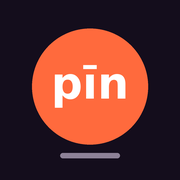
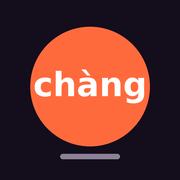
Rename to ChàngAlong
Claude-Session: https://claude.ai/code/session_011Qoc5iejNaPm9SH9yGWvwC

diff --git a/index.html b/index.html
@@ -6,8 +6,8 @@
 <meta name="theme-color" content="#140d1c">
 <meta name="apple-mobile-web-app-capable" content="yes">
 <meta name="apple-mobile-web-app-status-bar-style" content="black-translucent">
-<meta name="apple-mobile-web-app-title" content="Pinyin KTV">
-<title>Pinyin Karaoke</title>
+<meta name="apple-mobile-web-app-title" content="ChàngAlong">
+<title>ChàngAlong</title>
 <link rel="manifest" href="manifest.webmanifest">
 <link rel="apple-touch-icon" href="icons/icon-180.png">
 <link rel="icon" href="icons/icon-192.png">
@@ -19,12 +19,12 @@
   <!-- BROWSE: listen, search, recent, favourites -->
   <section id="browse" class="view">
     <header class="bhead">
-      <h1>Pinyin Karaoke</h1>
+      <h1>Chàng<span style="color:var(--hl)">Along</span></h1>
       <button class="ib" id="bSet1" aria-label="Settings"><svg viewBox="0 0 24 24"><path d="M4 7h10M18 7h2M4 17h4M12 17h8"/><circle cx="16" cy="7" r="2"/><circle cx="10" cy="17" r="2"/></svg></button>
     </header>
     <div class="scroll-y">
       <div class="listen-hero">
-        <a class="big" id="bListen" href="shortcuts://run-shortcut?name=Pinyin%20Karaoke">Listen</a>
+        <a class="big" id="bListen" href="shortcuts://run-shortcut?name=ChangAlong">Listen</a>
         <p class="hero-s">Shazam finds the song, then the lyrics open here in pinyin.</p>
         <button class="link" id="bHowListen">First time? Set up the Shortcut</button>
       </div>
@@ -60,7 +60,7 @@
       <button class="tap" id="bTap">Tap as the next line starts</button>
       <div class="dock">
         <button class="nudge" id="bBehind" aria-label="Lyrics are behind the singer: jump ahead half a second">Behind<small>+0.5s</small></button>
-        <div class="mid"><a class="mic" id="bListen2" href="shortcuts://run-shortcut?name=Pinyin%20Karaoke" aria-label="Listen for the next song"><svg viewBox="0 0 24 24"><rect x="9" y="3" width="6" height="11" rx="3"/><path d="M5 11a7 7 0 0 0 14 0M12 18v3"/></svg></a><div class="mid-t" id="midT">Next song</div></div>
+        <div class="mid"><a class="mic" id="bListen2" href="shortcuts://run-shortcut?name=ChangAlong" aria-label="Listen for the next song"><svg viewBox="0 0 24 24"><rect x="9" y="3" width="6" height="11" rx="3"/><path d="M5 11a7 7 0 0 0 14 0M12 18v3"/></svg></a><div class="mid-t" id="midT">Next song</div></div>
         <button class="nudge" id="bAhead" aria-label="Lyrics are ahead of the singer: hold back half a second">Ahead<small>−0.5s</small></button>
       </div>
     </footer>
@@ -93,7 +93,7 @@
     <li>Add <b>Get Details of Shazam Media</b> → <b>Title</b>. Then add <b>URL Encode</b>. Add <b>Set Variable</b> named <b>T</b>.</li>
     <li>Add <b>Get Details of Shazam Media</b> → <b>Artist</b> (tap the input and pick <i>Shazam Media</i> again), then <b>URL Encode</b>, then <b>Set Variable</b> named <b>A</b>.</li>
     <li>Add <b>Text</b> with:<br><code id="tplUrl"></code><button class="link" id="bCopyUrl">Copy</button></li>
-    <li>Add <b>Open URLs</b>. Done. Tip: Settings → Accessibility → Touch → Back Tap → Double Tap → <i>Pinyin Karaoke</i>.</li>
+    <li>Add <b>Open URLs</b>. Done. Tip: Settings → Accessibility → Touch → Back Tap → Double Tap → <i>ChangAlong</i>.</li>
   </ol>
 </section>
 

diff --git a/app.js b/app.js
@@ -1,14 +1,14 @@
-/* Pinyin Karaoke — PWA. Lyrics from LRCLIB, pinyin from pinyin-pro (bundled), song ID from iOS Shazam via a Shortcut. */
+/* ChàngAlong (唱 Along) — PWA. Lyrics from LRCLIB, pinyin from pinyin-pro (bundled), song ID from iOS Shazam via a Shortcut. */
 {
 'use strict';
-const VERSION = '0.1.0';
+const VERSION = '0.1.1';
 const API = 'https://lrclib.net/api';
 const APP_URL = location.origin + location.pathname;
 const $ = s => document.querySelector(s);
 const esc = s => String(s ?? '').replace(/[&<>"']/g, c => ({'&':'&amp;','<':'&lt;','>':'&gt;','"':'&quot;',"'":'&#39;'}[c]));
 const fmt = s => { s = Math.max(0, s | 0); return Math.floor(s / 60) + ':' + String(s % 60).padStart(2, '0'); };
 const isZh = c => /[㐀-鿿豈-﫿]/.test(c);
-const log = (...a) => console.log('[pinyin-karaoke v' + VERSION + ']', new Date().toISOString().slice(5, 19).replace('T', ' '), '|', ...a);
+const log = (...a) => console.log('[changalong v' + VERSION + ']', new Date().toISOString().slice(5, 19).replace('T', ' '), '|', ...a);
 const store = {
   get(k, d) { try { const v = localStorage.getItem('pk.' + k); return v == null ? d : JSON.parse(v); } catch (e) { return d; } },
   set(k, v) { try { localStorage.setItem('pk.' + k, JSON.stringify(v)); } catch (e) { log('storage full', e); } },

diff --git a/sw.js b/sw.js
@@ -1,5 +1,5 @@
 // Offline shell: app files cache-first; LRCLIB requests always go to the network (lyrics are cached by the app itself).
-const CACHE = 'pk-v0.1.0';
+const CACHE = 'ca-v0.1.1';
 const SHELL = ['./', 'index.html', 'app.css', 'app.js', 'vendor/pinyin-pro.js', 'manifest.webmanifest', 'icons/icon-180.png', 'icons/icon-192.png', 'icons/icon-512.png'];
 self.addEventListener('install', e => { e.waitUntil(caches.open(CACHE).then(c => c.addAll(SHELL)).then(() => self.skipWaiting())); });
 self.addEventListener('activate', e => { e.waitUntil(caches.keys().then(ks => Promise.all(ks.filter(k => k !== CACHE).map(k => caches.delete(k)))).then(() => self.clients.claim())); });

diff --git a/README.md b/README.md
@@ -1,8 +1,8 @@
-# Pinyin Karaoke
+# ChàngAlong (唱 Along)
 
 Sing Chinese songs at karaoke without reading characters. Shows lyrics in Hanyu Pinyin with tone marks, highlighted in time with the music.
 
-**Live app:** https://notclement.github.io/pinyin-karaoke/
+**Live app:** https://notclement.github.io/changalong/
 
 ## How it works
 
@@ -15,15 +15,15 @@ Everything runs in the browser. No account, no backend, no audio leaves the phon
 
 ## Shortcut setup (once)
 
-In the Shortcuts app, create a shortcut named exactly **Pinyin Karaoke**:
+In the Shortcuts app, create a shortcut named exactly **ChangAlong**:
 
 1. Recognize Music
 2. Get Details of Shazam Media → Title → URL Encode → Set Variable `T`
 3. Get Details of Shazam Media → Artist → URL Encode → Set Variable `A`
-4. Text: `https://notclement.github.io/pinyin-karaoke/?title=[T]&artist=[A]`
+4. Text: `https://notclement.github.io/changalong/?title=[T]&artist=[A]`
 5. Open URLs
 
-Optional: Settings → Accessibility → Touch → Back Tap → Double Tap → Pinyin Karaoke.
+Optional: Settings → Accessibility → Touch → Back Tap → Double Tap → ChangAlong.
 
 ## Controls
 
